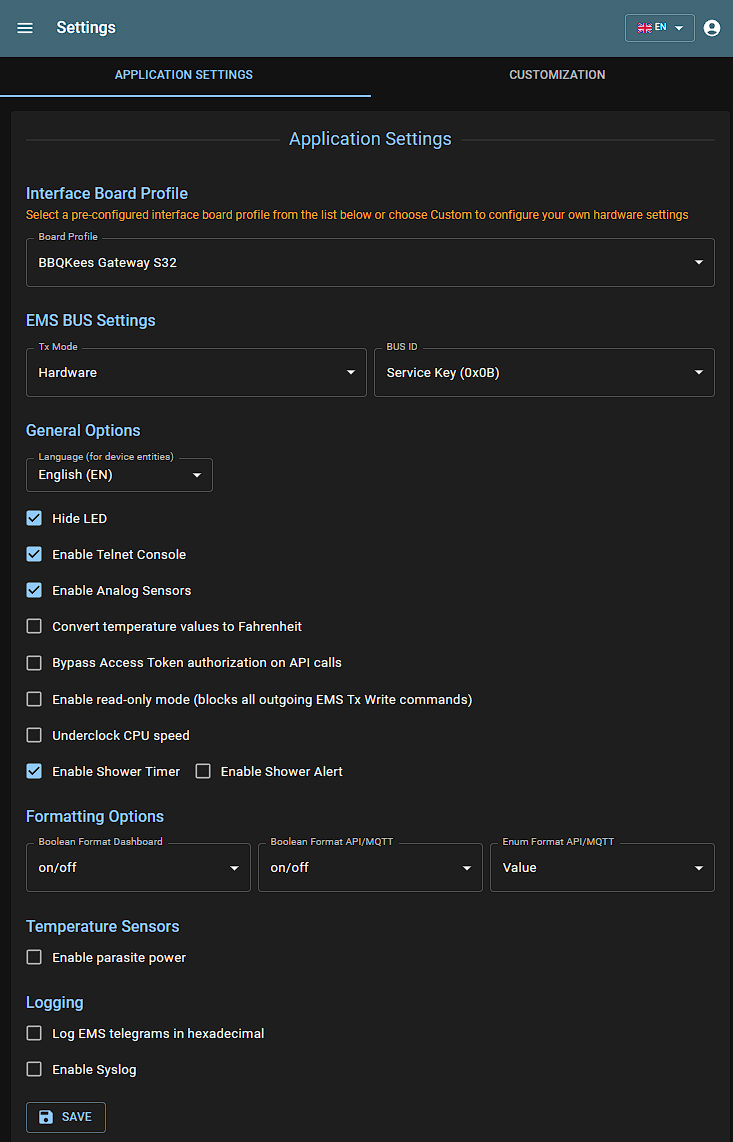
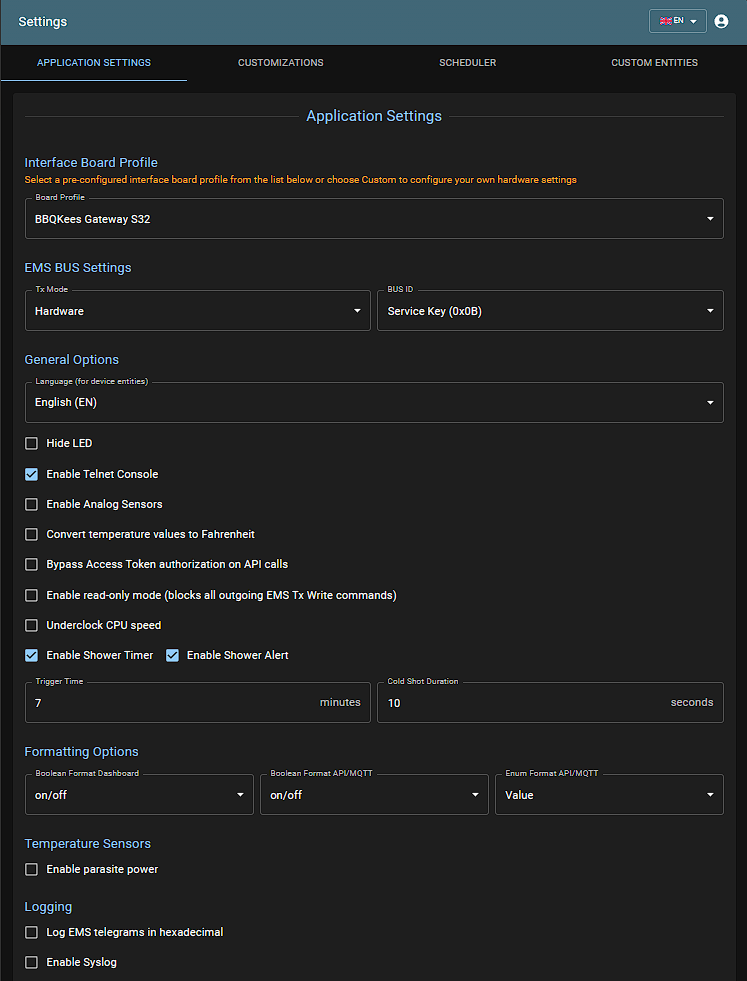
updated to 3.5.1

diff --git a/docs/Configuring.md b/docs/Configuring.md
@@ -1,10 +1,12 @@
 ## First-time Setup
 
-- First connect to the Access Point called `ems-esp` using the default WPA password `ems-esp-neo`.
-- When you see the captive portal sign-in with username `admin` and password `admin`.
-- Set the WiFi credentials and go back to <http://ems-esp>. Remember to change the password!
-- Now check is if Tx is working and that you have a connection to the EMS bus. If Tx failures are shown in the Web interface try changing the Tx Mode from the settings page. There is no need to re-start the EMS-ESP.
-- Use the WebUI (<http://ems-esp> or <http://ems-esp.local>) to further configure the settings.
+After uploading the firmware for the first time, it will use with the default settings and start an WiFi Access Point called `ems-esp`. Connect to this using the default WPA password `ems-esp-neo`. When prompted with a login screen (called a captive portal) sign-in with username `admin` and password `admin`.
+
+Now you're ready to further configure the settings. The recommended first step is to connect to your home network and this can be configured through the Network menu option on the web page, or directly using a Telnet Command Line interface (CLI). If you haven't adjusted the hostname you can reach the web UI via <http://ems-esp> or <http://ems-esp.local>.
+
+Next are the board settings and some other MQTT tweaking which you can read below.
+
+If you're seeing warnings that it failed to connect to the EMS bus, or there are Tx or Rx errors then follow the [troubleshooting](Troubleshooting) guide.
 
 !!! note "If Rx incomplete telegrams are reported in the log, don't panic. Some telegrams can be missed and this is usually caused by noise interference on the line."
 
@@ -12,19 +14,19 @@
 
 This next section describes some of key settings that can be configured via the WebUI.
 
-### Board Profile (`Settings`)
+### Board Profile (`Settings->Application Settings`)
 
-- If you have your own ESP32 development board you can choose from a pre-configured board (If you purchased a BBQKees Gateway this is already preselected) or select `Custom` to see and change the hardware settings:
+- If you have your own ESP32 development board you can choose from a pre-configured board (which is already set on a BBQKees Gateway) or select `Custom` to view and change the hardware settings:
   - **Rx GPIO** - Which GPIO pin the Rx is assigned to. By default this is GPIO 23 but it can be almost any free pin. Connect this GPIO pin to the RX port on the EMS interface board.
   - **Tx GPIO** - Which GPIO pin the Tx is assigned to. By default this is GPIO 5 but it can be almost any free pin. Connect this GPIO pin to the TX port on the EMS interface board.
   - **Button GPIO**. Set a pin with pull-up. The button is used for different functions, such as holding for 10 seconds to reset to factory settings.
   - **Temperature GPIO**. This is the pin where any external temperature sensors are attached. The Dallas chips DS1822, DS18S20, DS18B20, DS1825 are supported including their parasite varieties and can also be daisy-chained onto a single line, up to 100 sensors.
   - **LED GPIO**. This is the pin for the LED, defaulted to the onboard LED on the ESP dev board.
-  - And a set of Ethernet settings for the advanced tweakers.
+  - **Eth PHY Type** for choosing the Ethernet chip used.
 
-!!! note "On ESP32 development boards there are often also pins marked RX and TX. However, these are usually connected to the USB chip and cannot be used for the EMS interface circuit"
+!!! note "On ESP32 development boards there are often also pins marked RX and TX. However, these are usually connected to the USB chip and cannot be used for the EMS interface circuit."
 
-### EMS Bus (`Settings`)
+### EMS Bus (`Settings->Application Settings`)
 
 - **Tx Mode**. Tx Mode is the mode in which EMS-ESP sends telegrams on the EMS bus. Choose the mode that works best for your system and watch for Tx errors in the Web Dashboard and `show ems` in the Console. Changing the value has immediate effect.
   - `EMS` is the default for EMS1.0 systems but also compatible with most other bus protocols.
@@ -33,7 +35,7 @@ This next section describes some of key settings that can be configured via the 
   - `Hardware` uses the internal ESP's hardware to send out the telegram. Telegrams are sent immediately. It is the fastest and most efficient method but works only on some systems.
 - **Bus ID**. The EMS-ESP can simulate multiple devices. Stick to the `Service Key (0x0B)` unless using more than one EMS gateways/interface board.
 
-### General Options (`Settings`)
+### General Options (`Settings->Application Settings`)
 
 - **Hide LED**. Turns off the LED when in normal operating mode. The LED is still shown when booting or when there are connection issues.
 - **Enable Telnet Console**. This is on by default and allows users to connect to the in-secure Telnet server on port 23.
@@ -43,19 +45,19 @@ This next section describes some of key settings that can be configured via the 
 - **Enable Read only mode**. This disables any outgoing Tx write commands to the EMS bus, essentially putting EMS-ESP into listening mode.
 - **Underclock CPU speed**. Under-clocks the ESP to 160Mhz, saving on power, heat and prolonging the lifespan of the chip at the cost of performance and response time. A reboot of EMS-ESP is required.
 - **Enable Shower Timer**. Enable to time how long the hot water runs for and it will send out an MQTT message with the duration. The timer starts after a minimal of 2 minutes running time.
-- **Enable Shower Alert**. This is experimental and may not work on all systems. After 7 minutes running hot water, send out a warning by 3 short bursts of cold water. The boiler goes into test mode to perform this operation so use with caution.
+- **Enable Shower Alert**. This is somewhat experimental and may not work on all boilers. After 7 minutes (configurable) running the hot water it will send out a warning by sending cold water for 10 seconds (also configurable). The boiler goes into test mode to perform this operation so use with caution!
 
-### Formatting Options (`Settings`)
+### Formatting Options (`Settings->Application Settings`)
 
 - **Boolean Format Dashboard**. This is how boolean values are displayed in the WebUI and MQTT payloads.
 - **Boolean Format API/MQTT**. This is how boolean values are written in the MQTT payloads and API JSON output.
-- **Enum Format API/MQTT**. This is how list values are presented in the MQTT payloads and API JSON, either by it's value or the index position within the list.
+- **Enum Format API/MQTT**. This is how list values are presented in the MQTT payloads and API JSON, either by it's value or the index position within the list. Not if using Home Assitant you will not see the values but integer numbers for some entities, e.g. instead of `off, hot, cold` it will display `0, 1, 2`.
 
-### Temperature Sensors (`Settings`)
+### Temperature Sensors (`Settings->Application Settings`)
 
 - **Enable parasite power**. Select this option when using (Dallas) temperature sensors with parasitic power.
 
-### Logging (`Settings`)
+### Logging (`Settings->Application Settings`)
 
 - **Log EMS telegrams in hexadecimal** will write the telegrams in raw format as hexadecimal values everywhere.
 - **Enable Syslog**:
@@ -65,16 +67,36 @@ This next section describes some of key settings that can be configured via the 
     - **Log Level** sets the maximum log level for reported messages. The highest level is DEBUG which will send a lot of log data so use with caution.
     - **Mark Interval** will send out a special `mark` message to the SysLog. This is useful for timing events.
 
+### Customization (`Settings->Customizations`)
+
+The Customization page shows all registered entities and allows to exclude commands and values from publishing via mqtt/api or remove them from dashboard. The dashboard only shows entities with values, the customization page shows all. If an entity has no value then it is supported by EMS-ESP, but not by your boiler/thermostat/etc.
+
+![Web](_media/screenshot/web_customizations.png)
+
+### Customization (`Settings->Scheduler`)
+
+Use the scheduler to call commands at specific intervals. This is useful for example to set the hot water temperature to a higher value in the morning and evening, or do a system restart each week.
+
+![Web](_media/screenshot/web_scheduler.png)
+
+### Customization (`Settings->Custom Entities`)
+
+If you know where specific data is hiding in a telegram you can sniff them out and create a custom entity. This is useful way to test for new values before we can extend officially in the firmware.
+
+![Web](_media/screenshot/web_customentities.png)
+
 ### MQTT Settings (`MQTT->MQTT Settings`)
 
-These settings can be found in the `MQTT` tab on the WebUI. Most are self-explanatory and the settings that are specific to EMS-ESP are:
+Most are self-explanatory and the settings that are specific to EMS-ESP are:
 
 - **Broker Address**. Use the IP address.
-- **Client ID**. This is used internally to identify EMS-ESP with the broker and is optional. Note MQTT topics will be postfixed with the hostname (default `ems-esp`) and not the client ID.
-- **Base**. All topics are prefixed with `Base`, which is defaulted to `ems-esp` and can be changed to an individual path.
+- **Port**. The default is 1883 and 8883 for SSL.
+- **Base**. All topics are prefixed with the `Base` so this is important. Use when having multiple devices.
+- **Client ID**. This is used internally to identify EMS-ESP with the broker and is optional. Note MQTT topics will be postfixed with the hostname (default `ems-esp`) and not the client ID. Use when having multiple devices.
+- **Username** and **Password** are optional.
 - **Set Clean Session**. Creates a non-persistent session when enabled. Default is disabled.
 - **QoS**. Quality of Service, 0, 1 or 2. 0 is the default and suitable for more scenarios. 1 will give a guarantee that the message has been sent, but will create slightly more traffic and overhead.
-- **Always use Retain Flag**. Enable if you want to persist all the messages on the broker. Default is off.
+- **Always use Retain Flag**. Enable if you want to persist all the messages on the broker. Default is disabled.
 - **Formatting**. The `As individual topics` option will send all data as separate topics, and `Nested` will group the data into one single JSON payload. The default is nested.
 - **Publish command output to a 'response' topic'**. This takes the output from an API command (e.g. read) and publishes the result in a topic called `response`.
 - **Publish single value topics on change**. This option will immediately publish the topic and payload for each operation and only available when MQTT Discovery is disabled.
@@ -83,13 +105,15 @@ These settings can be found in the `MQTT` tab on the WebUI. Most are self-explan
       - **Entity ID format**: There are 3 options. The first `single instance, long names` uses the older < v3.5 format. The default and recommended setting for all new installs is the 2nd option called `Single instance, short name` which uses the EMS-ESP device entity name, which is fixed and can be seen in the `Settings->Customization` page. The last option is targeted for multiple instances of EMS-ESP running and prefixes all MQTT topics with the base name (which must be unique to work).
 - **Publish Intervals**. This section is per device and sets how frequent an MQTT message is sent. When set to 0 EMS-ESP will send data automatically when there is a noticeable change, which could be within a few seconds.
 
-### WiFi Settings (`Network->Network Settings`)
+### Network Settings (`Network->Network Settings`)
 
-## Adding External Sensors (`Dashboard->Device & Sensors`)
+We recommend sticking to the default settings.
 
-External sensors, like temperature and analog sensors can be attached to a range of GPIO pins on the ESP32 chip. If using a BBQKees Gateway board it already has an external plug for Dallas temperature sensors which will be visible in the WebUI without any configuration.
+## Sensors (`Dashboard->Sensors`)
 
-To add custom sensors click on the `+` next to `Sensors` from the Dashboard and choose between a normal Digital in/out, a Counter (counting on/off pulses), ADC for measuring voltages, Timer, Rate and PWM 0-2.
+External sensors, like temperature and analog sensors can be attached to a range of GPIO pins on the ESP32 chip. If using a BBQKees Gateway board it already has an external plug for Dallas temperature sensors which will be visible in the WebUI without any additional configuration.
+
+To add analog sensors click on `Add Analog Sensor` and choose between a normal Digital in/out, a Counter (counting on/off pulses), ADC for measuring voltages, Timer, Rate and PWM 0-2.
 
 ![Web](_media/screenshot/web_sensor.png)
 
@@ -103,21 +127,27 @@ To add custom sensors click on the `+` next to `Sensors` from the Dashboard and 
 
 The following GPIOs are recommended:
 
-- digital output: 13, 19, 21, 22, 27, 33, 37, 38
-- digital input/counter/timer/rate: 13, 19, 21, 22, 25, 26, 27, 33, 35, 37, 38, 39 (note no pullup on 35 & 39)
-- ADC input: 13, 19, 21, 22, 25, 26, 27, 33, 35, 37, 38, 39
-- DAC output: 25, 26
-- PWM output: 13, 19, 21, 22, 25, 26, 27, 33, 37, 38
+- digital output: `13, 19, 21, 22, 27, 33, 37, 38`
+- digital input/counter/timer/rate: `13, 19, 21, 22, 25, 26, 27, 33, 35, 37, 38, 39 (note no pullup on 35 & 39)`
+- ADC input: `13, 19, 21, 22, 25, 26, 27, 33, 35, 37, 38, 39`
+- DAC output: `25, 26`
+- PWM output: `13, 19, 21, 22, 25, 26, 27, 33, 37, 38`
 
 Limits:
 
-- ADC: 1.5V
-- DAC 8bit
-- PWM: max. frequency 5000Hz, resolution 13bits
-- Counter/timer/rate trigger on high->low edge with 15 ms debounce. Only for low pulse rates.
+- ADC: `1.5V`
+- DAC `8bit`
+- PWM: `max frequency 5000Hz, resolution 13bits``
+- Counter/timer/rate trigger: `high->low edge with 15 ms debounce. Only for low pulse rates.`
 
-## Customization (`Settings->Customizations`)
+## Security (`Security->Security Settings`)
 
-The Customization page shows all registered entities and allows to exclude commands and values from publishing via mqtt/api or remove them from dashboard. The dashboard only shows entities with values, the customization page shows all. If an entity has no value then it is supported by EMS-ESP, but not by your boiler/thermostat/etc.
+The Security page allows you to change the default password for the captive portal and Telnet CLI. It also allows you to enable HTTPS for the captive portal and MQTT broker.
 
-![Web](_media/screenshot/web_customizations.png)
+## Users (`Security->Manage Users`)
+
+The Users page allows you to create additional users for the captive portal and Telnet CLI. The default user is `admin` with password `admin`.
+
+Each user has an unique Access Token (viewable by clicking on the key icon) which is used for RESTful write commands via HTTP POST. This is for security reasons to prevent anyone changing device settings.
+
+![Web](_media/screenshot/web_users.png)

diff --git a/docs/About.md b/docs/About.md
@@ -8,7 +8,7 @@ EMS-ESP is an open source firmware for [Espressif](https://www.espressif.com/en/
 
 ## License
 
-This program is licensed under GPL-3.0
+This program is licensed under GPL-3.0.
 
 ## A Brief history
 
@@ -34,21 +34,24 @@ How it all started.
 - April 2020 - Version 1.9.5 - Big update with more solar, mixer support and writing to HT3
 - August 2020 - Version 2.0.0 - Complete re-write of the Telnet Console and WebUI. Added HA support plus an additional 50 new EMS devices
 
-  ![3.0.1](_media/screenshot/version301.png)
-
 - November 2020 - Version 2.1.0 - More console commands and Web additions
 - December 2020 - Version 2.2.0 - added RESTful API, SysLog
 - March 2021 - Version 2.2.1 - the last version 2 for the ESP8266
 - March 2021 - Version 3.0.0 - exclusive to the ESP32. Ethernet support, improved MQTT
 - May 2021 - Version 3.1.0 - write to device from WebUI
+
+  ![3.0.1](_media/screenshot/version301.png)
+
 - August 2021 - Version 3.2.0 - IPv6 support, System Log in WebUI, more features
 - November 2021 - Version 3.3.0 - More devices, pool data, mDNS
 - January 2022 - Version 3.4.0 - New UI and more features
 
   ![3.4.0](_media/screenshot/version340.png)
 
-- February 2023 - Version 3.5.0 - Multi-Language, Heat pumps, Customizations and so much more
+- February 2023 - Version 3.5.0 - Multi-Language, Heat pumps, Customizations, MQTT Discovery improvements.
 
   ![3.5.0](_media/screenshot/version350.png)
 
-- March 2023 - Version 3.5.1 - Patch and MQTT Discovery improvement
+- August 2023 - Version 3.6.0 - Sensors in it's own tab and able to browse all entities from the list. Added Scheduler and Custom Entity editor, plus Italian and Turkish.
+
+  ![3.6.0](_media/screenshot/version360.png)

diff --git a/docs/index.md b/docs/index.md
@@ -16,17 +16,17 @@ hide:
 [![Quality Gate Status](https://sonarcloud.io/api/project_badges/measure?project=emsesp_EMS-ESP32&metric=alert_status)](https://sonarcloud.io/summary/new_code?id=emsesp_EMS-ESP32)
 
 <span style="font-size: 1.5rem">Current Releases
-<BR><a href="https://github.com/emsesp/EMS-ESP32/releases/tag/v3.6.0">v3.6.0 Stable</a>
-<BR><a href="https://github.com/emsesp/EMS-ESP32/releases/tag/latest">v3.7.0 Development</a>
+<BR><a href="https://github.com/emsesp/EMS-ESP32/releases/tag/v3.6.1">v3.6.1 Main</a>
+<BR><a href="https://github.com/emsesp/EMS-ESP32/releases/tag/latest">v3 Development</a>
 </span>
 
-## New Features in v3.6.0
+## New Features introduced in v3.6.x
 
-13 August 2023: The next major is released!
+13 August 2023
 
 As well as bug fixes, memory and performance optimizations and more responsive Web layout, these are the other noticeable new features and enhancements:
 
-- Added Italian and Turkish translations (Please do reach out on Discord if you want to help translate to other languages)
+- Added Italian and Turkish translations (please do reach out on Discord if you want to help translate to other languages)
 - Added support for ESP32 S2, C3 mini and S3
 - Added 10 new EMS devices
 - Added a Scheduler to allow setting of EMS parameters at specific times

diff --git a/docs/Getting-Started.md b/docs/Getting-Started.md
@@ -53,11 +53,11 @@ espota.py --debug --progress --port 8266 --auth ems-esp-neo -i <IP address> -f <
 
     During the power-on sequence you'll see a sequence of LED flashes:
 
-    * 1 flash means the EMS bus is not connected
+    * 1 x flash = the EMS bus is not connected
 
-    * 2 flashes means the network (wifi or ethernet) is not connected
+    * 2 x flash = the network (wifi or ethernet) is not connected
 
-    * 3 flashes means both EMS bus and network are failing. This is a critical error!
+    * 3 x flash = both EMS bus and network are failing. This is a critical error!
 
     During normal operation the LED displays the current status:
 

diff --git a/docs/Troubleshooting.md b/docs/Troubleshooting.md
@@ -173,3 +173,7 @@ This could happen when either upgrading from an earlier EMS-ESP version and some
 ### HA has duplicate entities, prefixed with \_2
 
 See @swa72's fix [here](https://github.com/swa72/home-assistant/blob/main/README-mqtt.md).
+
+### HA has messed up the names of my entities
+
+This happens, when HA make changes to MQTT Discovery. There's a nice tool called [homeassistant-entity-renamer](https://github.com/saladpanda/homeassistant-entity-renamer) that can help you fix this.

diff --git a/docs/Version-Release-History.md b/docs/Version-Release-History.md
@@ -1,9 +1,5 @@
 This lists the Change Log for only the rolled-up major versions since v3's primary release in March 2021. For a list of all releases and their fixes, changes and new features see the [latest dev Change Log](https://github.com/emsesp/EMS-ESP32/blob/dev/CHANGELOG_LATEST.md).
 
-### **3.7.0 - current development version**
-
-More features....
-
 ### **3.6.0 - August 13 2023**
 
 !!! warning ":rotating_light: **BREAKING CHANGE** :rotating_light:"

diff --git a/docs/Building.md b/docs/Building.md
@@ -31,6 +31,8 @@ and then from the `interface` folder run:
 % yarn run standalone
 ```
 
+Make sure you have the latest version of node installed. You need at least 18.20 and can check with `node -v`. An easy way to switch between different node versions is to use [nvm](https://github.com/nvm-sh/nvm).
+
 This will open a browser window with URL `localhost:3000`.
 
 The mock data used is all hardcoded in `/mock-api/server.js`.

diff --git a/README.md b/README.md
@@ -59,6 +59,7 @@ Easiest way is to run pip as a module (https://realpython.com/what-is-pip/#using
 - `pip install -r requirements.txt` to refresh latest libs
 - `mkdocs serve` to build the documentation
 - <http://127.0.0.1:8000/docs>
+- TIP: comment out the `git-committers` in `mkdocs.yml` to speed up the build
 
 ## Deploying manually
 
